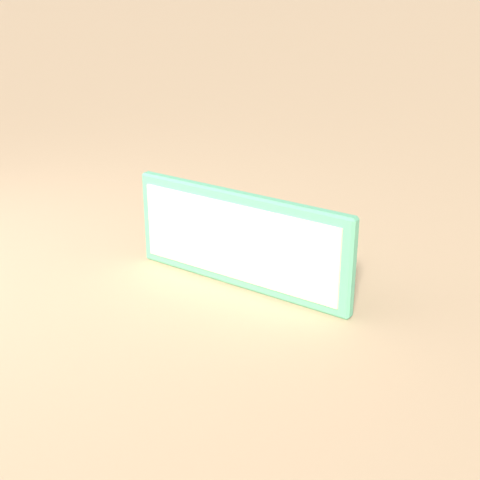
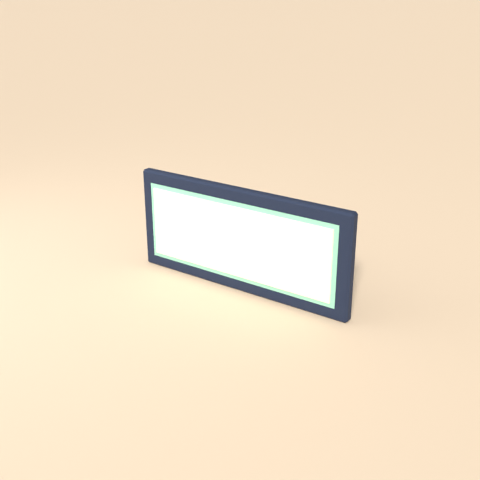
Spa name sign: a navy frame so it stands out from the pink wall (#360)
A Studio check measured the cream face at 1.6 to 1 against the
bubblegum wall. The frame goes from mint to navy with a thin mint lip
and is a little wider; the cream Screen face keeps its size and place.

Claude-Session: https://claude.ai/code/session_01DW2up3E6M21fYJtCcCtEdr

Changed region(s): [[0.2812, 0.3438, 0.75, 0.6875]]

diff --git a/assets/clean-a-cat/blender/spa_props.py b/assets/clean-a-cat/blender/spa_props.py
@@ -235,18 +235,29 @@ def tip_jar_rbx_extras():
 SIGN_W, SIGN_H = 6.0, 2.4
 
 
+SIGN_EDGE = 0.45      # the dark frame showing round the face on every side
+
+
 def build_window_sign(mat):
-    """The spa's name sign on the front wall (#17): a bubblegum board with a mint frame, two brackets, and a cream
-    face named `Screen` (front, -Z in Roblox) for a SurfaceGui with the player's spa name. Pivot at the middle of its
-    back, which goes flat on the wall at the plot's SpotSign."""
+    """The spa's name sign on the front wall (#17): a framed board with two brackets and a cream face named `Screen`
+    (front, -Z in Roblox) for a SurfaceGui with the player's spa name. Pivot at the middle of its back, which goes
+    flat on the wall at the plot's SpotSign.
+
+    The frame is navy with a thin mint lip inside it (#360). It was mint, and on the bubblegum wall the whole sign
+    was pastel on pastel: a Studio check measured the cream face at 1.6 to 1 against the wall, sky on or off. No pale
+    colour can reach 3 to 1 against that pink (white itself is 1.7 to 1), so the face stays cream for dark name text
+    and the frame carries the contrast: navy is over 6 to 1 against the wall and over 9 to 1 against the face. The
+    face is the size it was, so a SurfaceGui laid out for it still fits."""
     name = "CleanACat_Prop_WindowSign"
+    fw, fh = SIGN_W - 0.5, SIGN_H - 0.5                                             # the face
     b = Builder()
-    b.box((0, -0.18, 0), (SIGN_W, 0.3, SIGN_H), "spa_mint")                        # the frame
+    b.box((0, -0.18, 0), (fw + 2 * SIGN_EDGE, 0.3, fh + 2 * SIGN_EDGE), "pants_navy")   # the frame
+    b.box((0, -0.31, 0), (fw + 0.24, 0.06, fh + 0.24), "spa_mint", bevel=False)     # the lip round the face
     for sx in (1, -1):                                                              # brackets into the wall
         b.box((sx * (SIGN_W / 2 - 0.6), -0.02, 0), (0.3, 0.06, SIGN_H - 0.6), "metal", bevel=False)
     main = b.finalize(name, mat)
     s = Builder()
-    s.box((0, -0.35, 0), (SIGN_W - 0.5, 0.06, SIGN_H - 0.5), "spa_cream", bevel=False)
+    s.box((0, -0.35, 0), (fw, 0.06, fh), "spa_cream", bevel=False)
     screen = s.finalize(name + "_Screen", mat, bevel=0)
     return [main, screen]
 

diff --git a/docs/concepts/clean-a-cat/README.md b/docs/concepts/clean-a-cat/README.md
@@ -67,4 +67,5 @@ HUD source page: `assets/clean-a-cat/ui/hud.html`. Plans: issues #5 (first sessi
 - `ui-2026-11-24/`: draft screens for the parts very likely needed whichever loop is picked (HUD, wash steps, recap, who's next queue, Cat Index, new cat reveal, cat chances, tools, helpers, builder, settings, toasts and praise, tutorial steps, while you were away). Each at phone (844 x 390) and desktop (1280 x 720). Source pages and the screen check are in `assets/clean-a-cat/ui/screens/`; every screen passes the check at seven screen sizes. Stand-in art, invented numbers and names. 2026-11-24.
 - `2026-11-24-street-backdrop.png`: the world round the street, first draft (#349): from where the player stands in the opening, looking back at the spa, down the road both ways, from high up, and the street as it was. `CleanACat_Area_Backdrop` is new and the houses across the road are rebuilt. The grey sky is the render's. 2026-11-24.
 - `2026-11-24-photo-camera.png`: the photo camera on its tripod for the photo step (#344), from four sides and beside a player for size. 2026-11-24.
+- `2026-11-24-spa-sign.png`: the spa's name sign before and after its navy frame (#360), from the street and close up. 2026-11-24.
 - `2026-11-24-opening-storyboard.jpg`: the opening Derek asked for (a truck hits a bump, a plain brown box falls in front of the player, a muddy kitten inside is washed and becomes Suds, the spa mascot). Third version: the 3.7 second intro shot Derek picked, then the player taps the box, picks the kitten up and carries him in (the hold from Derek's clip, kitten across the arms), the camera eases into the close-up wash view where each tool is taught, and the "Meet Suds!" card at the side, then his bed by the door with the help bubble. Stand-in poses from Model-Agent's models; plan in Design-Agent/first-session-2026-11-24/opening-and-tutorial-plan.md in the project files. 2026-11-24.

diff --git a/docs/art/style-guide.md b/docs/art/style-guide.md
@@ -172,7 +172,7 @@ Its pivot is slot 1's plot pivot, so it goes at `SpaLayout.PIVOT_POSITION`. Atta
 `spa_props.py` builds the window set (four cushions, the jar and the sign: 1,236 triangles, under the 1,500 budget):
 - `CleanACat_Prop_Cushion`: a round bubblegum cushion with a puffed top, a cream button and four tassels. Pivot on its base at each `SpotWindow`; `CatSeat` on top. Window cats sit at `ScaleTo(CatScale)` (root attribute, 1.3) so they read from the street and the next plot.
 - `CleanACat_Prop_TipJar`: a square glass jar (`..._Glass`, 0.6 see-through, one box since #235: a rim under the lid used to overlap it) on a mint base with a lid, a gold coin `Fill` part and a cream `Screen` label at the front for the count. To fill it, keep Fill's bottom at the root attribute `FillBottom` and set its height from 0 to `FillHeight` (hide it when empty). At `SpotTipJar`.
-- `CleanACat_Prop_WindowSign`: a mint-framed sign with a cream `Screen` face for the spa's name, flat on the front wall at `SpotSign`, facing the street.
+- `CleanACat_Prop_WindowSign`: a sign with a cream `Screen` face for the spa's name in a navy frame with a thin mint lip, flat on the front wall at `SpotSign`, facing the street. The frame was mint until #360: on the bubblegum wall the sign was pastel on pastel, and a Studio check measured the face at 1.6 to 1 against the wall. No pale colour reaches 3 to 1 against that pink (white is 1.7 to 1), so the face stays cream for dark name text and the navy frame carries the contrast (6.4 to 1 against the wall, 10 to 1 against the face). 6.4 by 2.8; the face is 5.5 by 1.9 as before.
 
 The plot draws a mint frame round the window and the entrance (`_Trim`, no collision).
 

diff --git a/assets/clean-a-cat/exports/gates.md b/assets/clean-a-cat/exports/gates.md
@@ -100,7 +100,7 @@ Generated by `build_all.py` (no build time, so parallel model PRs don't conflict
 | CleanACat_Prop_TipJar | PASS | 104 / 400 | 0.98 x 0.99 x 1.52 |  |  |
 | CleanACat_Prop_Toolbox | PASS | 140 / 140 | 1.3 x 0.69 x 0.92 |  |  |
 | CleanACat_Prop_Twig | PASS | 172 / 400 | 0.67 x 0.9 x 0.08 |  | centered |
-| CleanACat_Prop_WindowSign | PASS | 80 / 300 | 6.0 x 0.39 x 2.4 |  | pivot, centered |
+| CleanACat_Prop_WindowSign | PASS | 92 / 300 | 6.4 x 0.39 x 2.8 |  | pivot, centered |
 | CleanACat_Station_BrushTable | PASS | 672 / 1200 | 3.4 x 2.41 x 4.25 |  | centered |
 | CleanACat_Station_BrushTableUp | PASS | 968 / 1200 | 3.46 x 2.67 x 4.35 |  | centered |
 | CleanACat_Station_BubbleBath | PASS | 4472 / 4600 | 4.76 x 4.6 x 5.24 |  |  |
